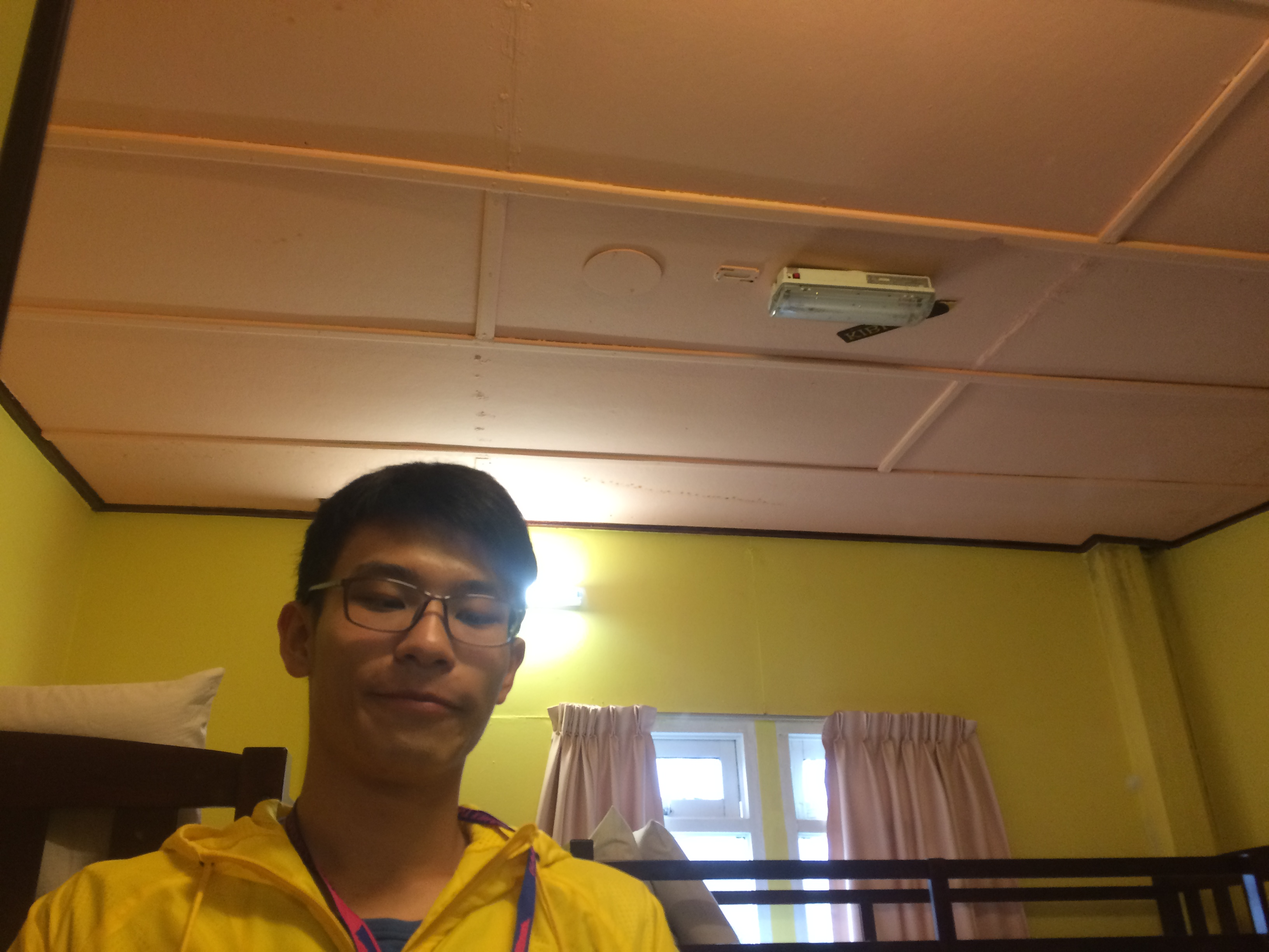
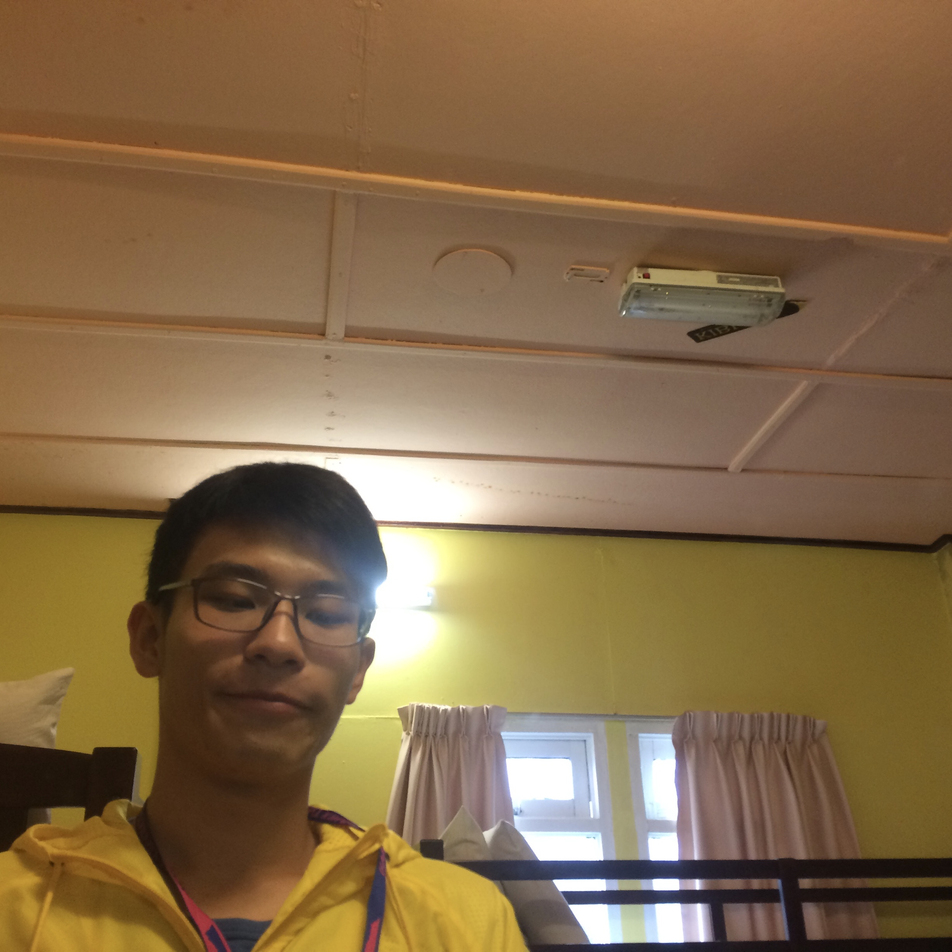
photo fix&rotate

diff --git a/EN/index.html b/EN/index.html
@@ -24,7 +24,7 @@
 	    <div class="resume-wrapper-inner mx-auto text-left bg-white shadow-lg">
 		    <header class="resume-header pt-4 pt-md-0">
 			    <div class="media flex-column flex-md-row">
-				    <img class="mr-3 img-fluid picture mx-auto" src="assets/images/profile.jpg" alt="">
+				    <img class="mr-3 img-fluid picture mx-auto" src="IMG_6094.jpg"style="transfrom:rotate(90deg);" alt="">
 				    <div class="media-body p-4 d-flex flex-column flex-md-row mx-auto mx-lg-0">
 					    <div class="primary-info">
 						    <h1 class="name mt-0 mb-1 text-white text-uppercase text-uppercase">Aarone Zhang</h1>
@@ -36,10 +36,10 @@
 					    </div><!--//primary-info-->
 					    <div class="secondary-info ml-md-auto mt-2">
 						    <ul class="resume-social list-unstyled">
-				                <li class="mb-3"><a href="#"><span class="fa-container text-center mr-2"><i class="fab fa-github-alt fa-fw"></i></span>github.com/AaroneZhang</a></li>
-				                <li class="mb-3"><a href="#"><span class="fa-container text-center mr-2"><i class="fab fa-instgram fa-fw"></i></span> Instgram: aaronweiwei</a></li>
-				                <li><a href="#"><span class="fa-container text-center mr-2"><i class="fas fa-globe"></i></span>WeChat:AaronsStark</a></li>
-				                <li><a href="https://aaronezhang.github.io/en/EN/index"><span class="fa-container text-center mr-2"><i class="fas fa-globe"></i></span>English</a><a href="https://aaronezhang.github.io/en/CN/index"></i></span>     中文</a></li>
+				                <li class="mb-3"><a href="github.com/AaroneZhang"><span class="fa-container text-center mr-2"><i class="fab fa-github-alt fa-fw"></i></span>github.com/AaroneZhang</a></li>
+				                <li class="mb-3"><a href="https://www.instagram.com/aaronweiwei/"><span class="fa-container text-center mr-2"><i class="fab fa-instgram fa-fw"></i></span> Instgram: aaronweiwei</a></li>
+				                <li class="mb-3"><a href="#"><span class="fa-container text-center mr-2"><i class="fas fa-globe"></i></span>WeChat:AaronsStark</a></li>
+				                <li class="mb-3"><a href="https://aaronezhang.github.io/en/EN/index"><span class="fa-container text-center mr-2"><i class="fas fa-globe"></i></span>English</a><a href="https://aaronezhang.github.io/en/CN/index"></i></span>       中文</a></li>
 						    </ul>
 					    </div><!--//secondary-info-->
 					    

diff --git a/CN/index.html b/CN/index.html
@@ -36,10 +36,10 @@
 					    </div><!--//primary-info-->
 					    <div class="secondary-info ml-md-auto mt-2">
 						    <ul class="resume-social list-unstyled">
-				                <li class="mb-3"><a href="#"><span class="fa-container text-center mr-2"><i class="fab fa-github-alt fa-fw"></i></span>github.com/AaroneZhang</a></li>
-				                <li class="mb-3"><a href="#"><span class="fa-container text-center mr-2"><i class="fab fa-instgram fa-fw"></i></span> Instgram: aaronweiwei</a></li>
-				                <li><a href="#"><span class="fa-container text-center mr-2"><i class="fas fa-globe"></i></span>WeChat:AaronsStark</a></li>
-				                <li><a href="https://aaronezhang.github.io/en/EN/index"><span class="fa-container text-center mr-2"><i class="fas fa-globe"></i></span>English</a><a href="https://aaronezhang.github.io/en/CN/index"></i></span>     中文</a></li>
+				                <li class="mb-3"><a href="github.com/AaroneZhang"><span class="fa-container text-center mr-2"><i class="fab fa-github-alt fa-fw"></i></span>github.com/AaroneZhang</a></li>
+				                <li class="mb-3"><a href="https://www.instagram.com/aaronweiwei/"><span class="fa-container text-center mr-2"><i class="fab fa-instgram fa-fw"></i></span> Instgram: aaronweiwei</a></li>
+				                <li class="mb-3"><a href="#"><span class="fa-container text-center mr-2"><i class="fas fa-globe"></i></span>WeChat:AaronsStark</a></li>
+				                <li class="mb-3"><a href="https://aaronezhang.github.io/en/EN/index"><span class="fa-container text-center mr-2"><i class="fas fa-globe"></i></span>English</a><a href="https://aaronezhang.github.io/en/CN/index"></i></span>     中文</a></li>
 						    </ul>
 					    </div><!--//secondary-info-->
 					    
